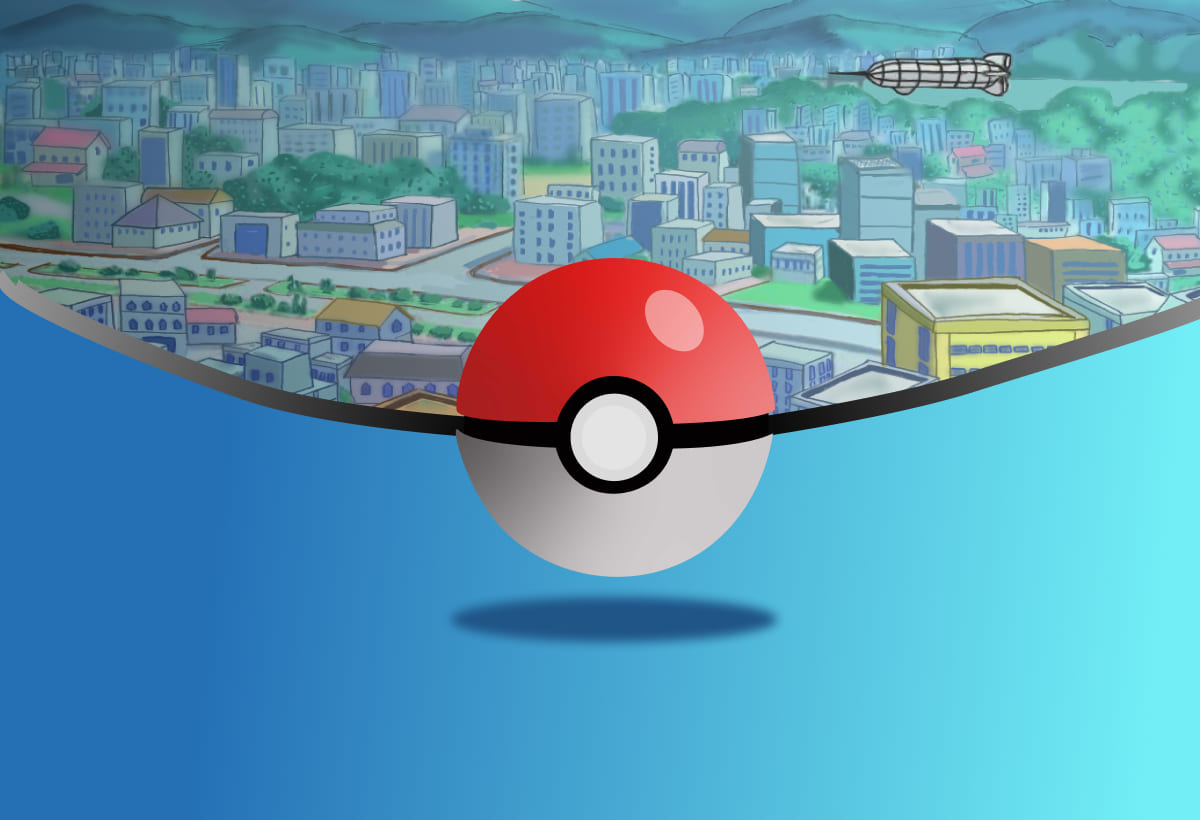
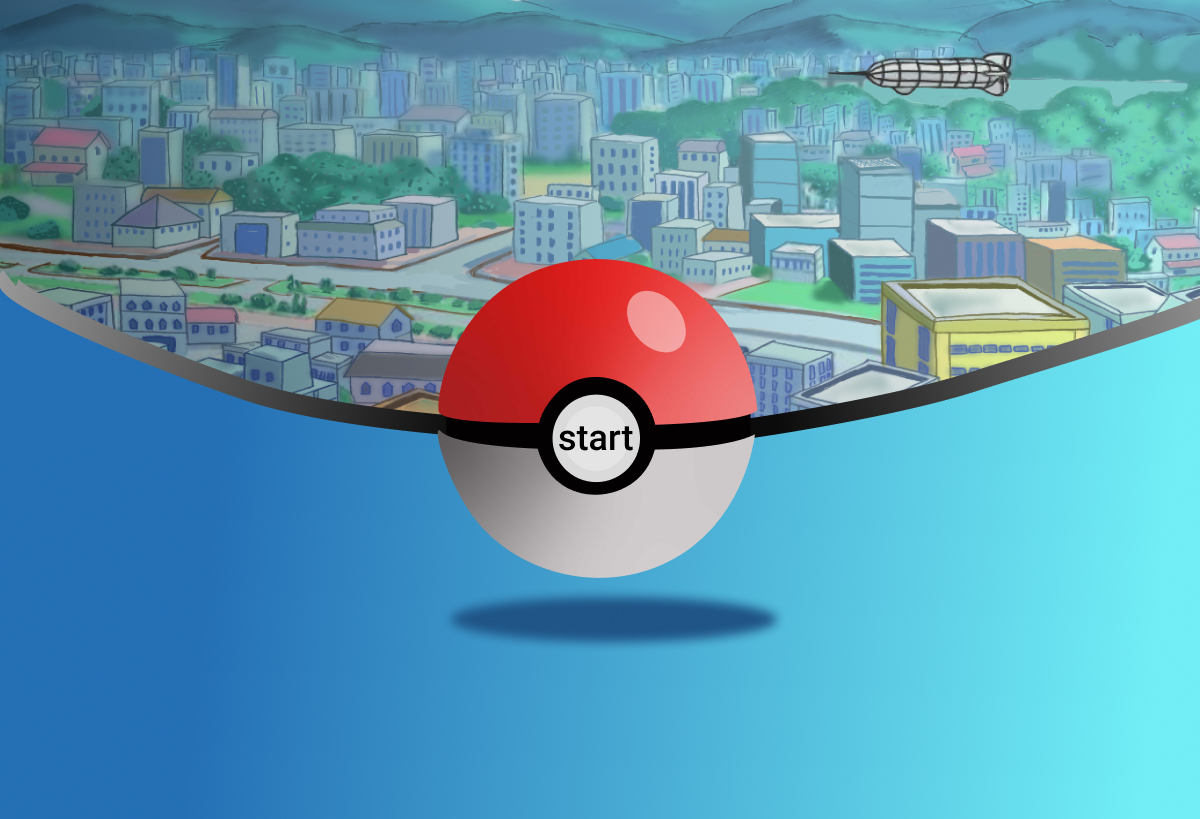
fix responsive

Changed region(s): [[0.3392, 0.3053, 0.6475, 0.6716], [0.5242, 0.6105, 0.6167, 0.7021], [0.4317, 0.6716, 0.4933, 0.7021]]

diff --git a/frontend/frontend/src/components/Login/login.jsx b/frontend/frontend/src/components/Login/login.jsx
@@ -5,7 +5,6 @@ import logo from '../../assets/header/logo.svg'
 import pikachu_pokeball from '../../Ảnh Pokemon Dự Trù/pikachu-authorization.png'
 import { Lang } from '../Lang/Lang'
 import { t } from 'ttag'
-import { reCaptchaExecute } from 'recaptcha-v3-react-function-async'
 import { get } from '../../cookie'
 import { saveLocale } from '../../utm'
 import { useParams } from 'react-router-dom'
@@ -120,17 +119,11 @@ const Signup = () => {
 				data.email.length > 0
 			) {
 				try {
-					let gtoken = await reCaptchaExecute(
-						'6MM8ECLaq9zC4xgck6QUJACuAxDkZyouDAnYOIb3',
-						'auth'
-					)
-					console.log(gtoken)
 					let validObj = {
 						email: data.email,
 						password1: data.password1,
 						password2: data.password2,
 						utm: data.utm,
-						gtoken: gtoken,
 					}
 					console.log(validObj)
 					const { data: res } = await axios.post(`/api/register`, validObj, {

diff --git a/frontend/frontend/src/components/Deposit/Deposit.jsx b/frontend/frontend/src/components/Deposit/Deposit.jsx
@@ -176,7 +176,7 @@ const Deposit = () => {
 									{t`To top up your balance, send the required amount to the specified purse trc-20. The amount will be immediately credited to your game balance.`}
 								</p>
 								<span className='link-invite deposit-link' ref={linkRef}>
-									123
+									{`${user.wallet}${data.col}`}
 									<FontAwesomeIcon
 										icon={faCopy}
 										className='copy-icon deposit-copy-icon'
@@ -184,8 +184,7 @@ const Deposit = () => {
 									/>
 								</span>
 								<p className='deposit-description'>
-									{t`Минимальная сумма платежа 10 usdt. Транзакции с меньшей суммой
-									будут утеряны`}
+									{t`The minimum amount to be paid is 10 usdt. Transactions for a smaller amount will be lost`}
 								</p>
 							</div>
 						</div>

diff --git a/frontend/frontend/src/components/ResetPass/Resetpass.jsx b/frontend/frontend/src/components/ResetPass/Resetpass.jsx
@@ -33,7 +33,7 @@ const Resetpass = () => {
 					})
 					console.log(data)
 					console.log(res.data)
-					// navigate('/home') //after registering navigate to login page
+					navigate('/login') //after registering navigate to login page
 					console.log(res.message)
 				} catch (error) {
 					console.log(error)
@@ -75,7 +75,7 @@ const Resetpass = () => {
 					/>
 					{invalidPassword && (
 						<div className='input__invalid-text'>
-							<p>You must enter more than 8 characters</p>
+							<p>{t`The password must be at least 8 characters long. Contains letters and symbols`}</p>
 						</div>
 					)}
 					<button className='authorization__button reset-btn' type='submit'>

diff --git a/frontend/frontend/src/App.js b/frontend/frontend/src/App.js
@@ -7,20 +7,7 @@ import Pay from './components/Pay/Pay'
 import Deposit from './components/Deposit/Deposit'
 import Rules from './components/Rules/Rules'
 import Resetpass from './components/ResetPass/Resetpass'
-import { loadReCaptcha } from 'recaptcha-v3-react-function-async'
-import { get } from './cookie'
 function App() {
-	console.log(get('utm'))
-	React.useEffect(() => {
-		loadReCaptcha('6LfvLEkhAAAAAHfamR736TVtumYAmll0Kiy1iqmD')
-			.then(() => {
-				console.log('ReCaptcha loaded')
-			})
-			.catch(e => {
-				console.error('Error when load ReCaptcha', e)
-			})
-	}, [])
-
 	return (
 		<Routes>
 			<Route path='/' element={<StartGame />} />

diff --git a/frontend/frontend/src/components/StartGame/startgame.jsx b/frontend/frontend/src/components/StartGame/startgame.jsx
@@ -25,11 +25,7 @@ const Startgame = () => {
 	const [onActive, setActive] = React.useState(true)
 	return (
 		<div className='background-start'>
-			<img src={Logo} className='logo-tokemon' alt='' />
 			<img src={MainBg} alt='' className='main-bg' />
-			<p className='start-game' onClick={startGame}>
-				{t`start`}
-			</p>
 			<Lang isActive={onActive} />
 		</div>
 	)

diff --git a/frontend/frontend/src/components/Submenu/Game/game.css b/frontend/frontend/src/components/Submenu/Game/game.css
@@ -412,11 +412,7 @@ ul li {
 		height: 70px;
 	}
 	.homepage-wrapper {
-		background-image: url('../../../assets/MainBackground.jpg');
-		background-attachment: fixed;
-		background-size: contain;
-		background-repeat: no-repeat;
-		background-position: bottom;
+		background-size: 1300px;
 	}
 }
 @media screen and (max-width: 420px) {

diff --git a/frontend/frontend/src/components/Deposit/Deposit.css b/frontend/frontend/src/components/Deposit/Deposit.css
@@ -91,11 +91,12 @@
 }
 .deposit-text{
 	margin: 10px 0px;
-	font-size: 14px;
+	font-size: 16px;
 }
 .deposit-description {
 	margin-top: 10px;
 	opacity: .9;
+	font-size: 18px;
 }
 .deposit-copy-icon{
 	color: #ffcc00;
